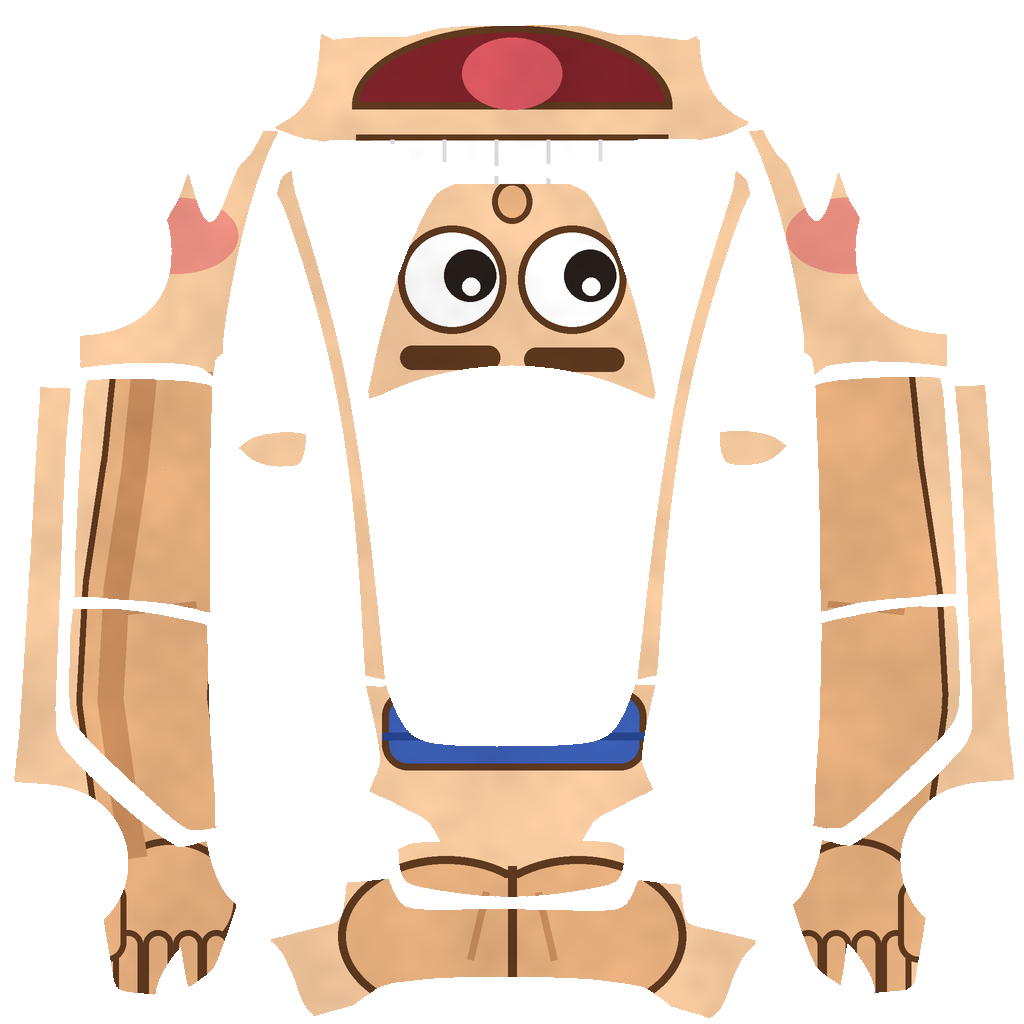
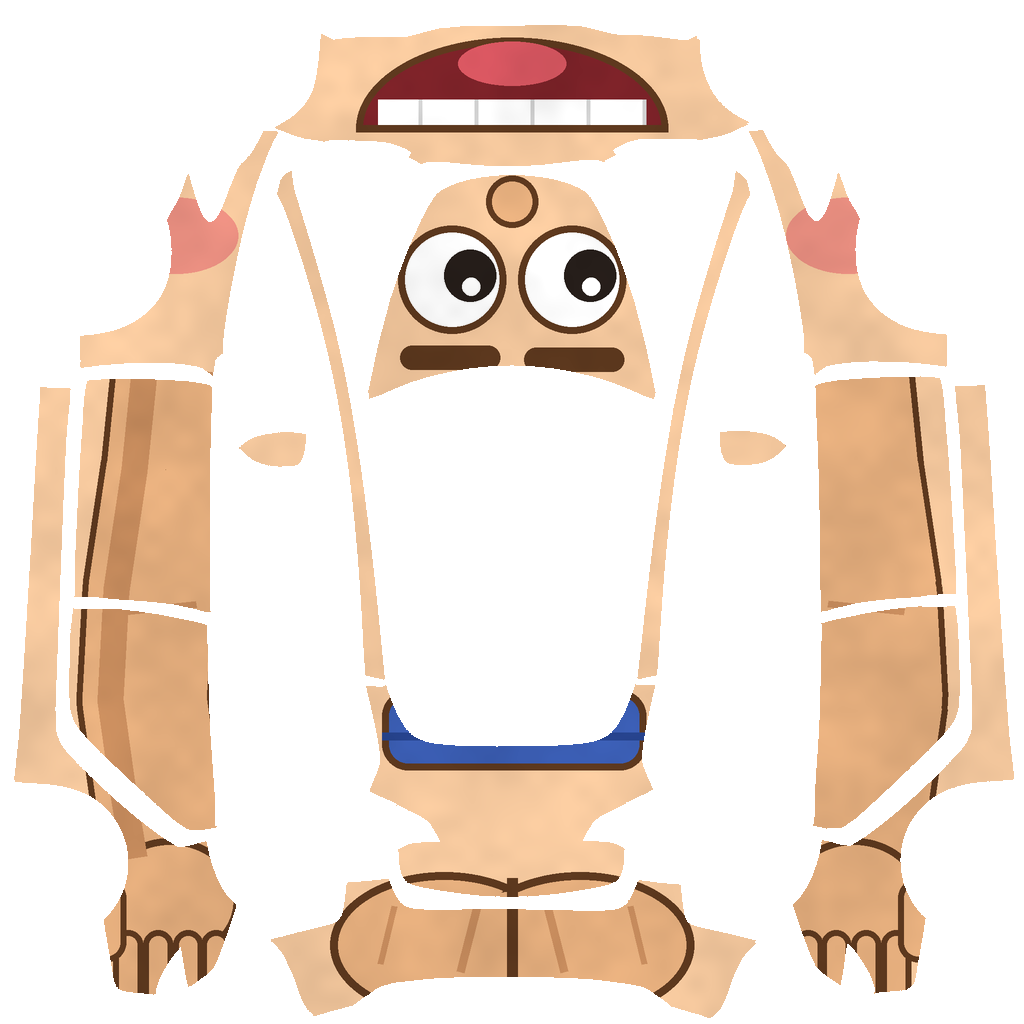
custom

Changed region(s): [[0.3438, 0.0, 0.6562, 0.2188], [0.3125, 0.8125, 0.6875, 0.9688]]

diff --git a/model3/custom/README.md b/model3/custom/README.md
@@ -1,0 +1,41 @@
+# Model 3 Custom Wraps
+
+Custom designs built on the [Model 3 template](../template.png). Drop any of these
+PNGs into the `Wraps` folder on a USB drive, or upload them from the mobile app
+(Creations → Wrap → Upload), then apply them in Toybox → Paint Shop → Wraps.
+
+## Designs
+
+<p>
+<a href="Black_Flames.png"><img src="Black_Flames.png" width="150"/></a>
+<a href="Dad_Jokes.png"><img src="Dad_Jokes.png" width="150"/></a>
+<a href="Cartoon_Person.png"><img src="Cartoon_Person.png" width="150"/></a>
+<a href="Aurora.png"><img src="Aurora.png" width="150"/></a>
+<a href="Tiger_Stripes.png"><img src="Tiger_Stripes.png" width="150"/></a>
+<a href="Synthwave_Sunset.png"><img src="Synthwave_Sunset.png" width="150"/></a>
+<a href="Cartoon_Rabbits.png"><img src="Cartoon_Rabbits.png" width="150"/></a>
+</p>
+
+| Wrap | What it does on the car |
+| --- | --- |
+| **Black_Flames** | Gloss black with hot-rod flames licking back from the nose and down both flanks. |
+| **Dad_Jokes** | Comic-book navy with "DAD IS THE BEST" on the hood and a joke on every panel. |
+| **Cartoon_Person** | Skin tone all over: eyes on the hood, a grin across the front bumper, arms down the sides, a butt on the rear. |
+| **Aurora** | Northern lights over a deep night sky, with stars scattered across the panels. |
+| **Tiger_Stripes** | Amber fur with brushed black stripes wrapping around the body. |
+| **Synthwave_Sunset** | Banded retro sun on the hood, neon perspective grid running back over the doors and rear. |
+| **Cartoon_Rabbits** | White, light brown and black cartoon rabbits scattered over a soft green meadow, covering every panel. |
+
+## How the template maps to the car
+
+Useful if you want to edit these or place your own artwork:
+
+* **Top of the image is the front of the car**, bottom is the rear.
+* Center column, top to bottom: front bumper → hood → (glass roof, not wrapped) → trunk lid → rear bumper.
+* Left and right columns are the flanks: front fender → front door → rear door → rear quarter, with the outer edge being the rocker.
+* Front panels are unwrapped folded forward, so **artwork meant to be read from the front must be rotated 180°** — that's why the mouth on `Cartoon_Person` and the hood text on `Dad_Jokes` look upside down in the flat file.
+* Rear panels keep normal orientation, and side artwork is rotated 90° (clockwise on the left, counter-clockwise on the right).
+
+---
+
+[← Model 3 templates and examples](../) · [Back to main page](https://github.com/teslamotors/custom-wraps)

diff --git a/model3/wraps/README.md b/model3/wraps/README.md
@@ -1,0 +1,27 @@
+# Model 3 Wraps
+
+Custom designs built on the [Model 3 template](../template.png). Drop any of these
+PNGs into the `Wraps` folder on a USB drive, or upload them from the mobile app
+(Creations → Wrap → Upload), then apply them in Toybox → Paint Shop → Wraps.
+
+## Designs
+
+<p>
+<a href="Cartoon_Rabbits.png"><img src="Cartoon_Rabbits.png" width="150"/></a>
+<a href="Great_Wave.png"><img src="Great_Wave.png" width="150"/></a>
+<a href="Lava_Cracks.png"><img src="Lava_Cracks.png" width="150"/></a>
+<a href="Monarch_Wings.png"><img src="Monarch_Wings.png" width="150"/></a>
+<a href="Marble_Gold.png"><img src="Marble_Gold.png" width="150"/></a>
+</p>
+
+| Wrap | What it does on the car |
+| --- | --- |
+| **Cartoon_Rabbits** | Sage-green meadow with white, tan, and black kawaii rabbits and clovers on every panel. |
+| **Great_Wave** | Hokusai-style indigo waves and white foam crashing across the hood, doors, and bumpers. |
+| **Lava_Cracks** | Cooling volcanic rock with molten orange lava rivers running down the centerline and flanks. |
+| **Monarch_Wings** | Tangerine butterfly-wing scales, black veins, and white edge spots wrapping the body. |
+| **Marble_Gold** | Cream Calacatta marble with sweeping metallic gold veins from nose to tail. |
+
+---
+
+[← Model 3 templates and examples](../) · [Back to main page](https://github.com/teslamotors/custom-wraps)
